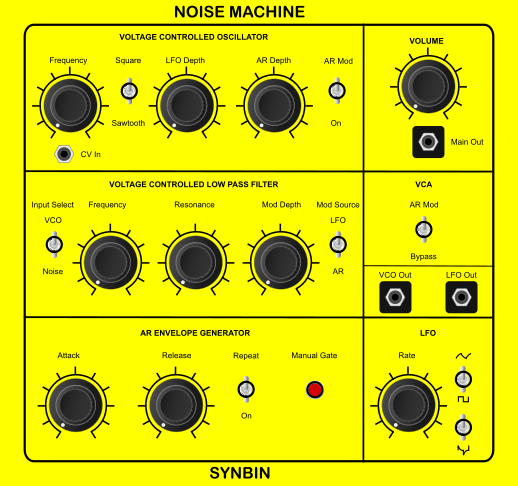
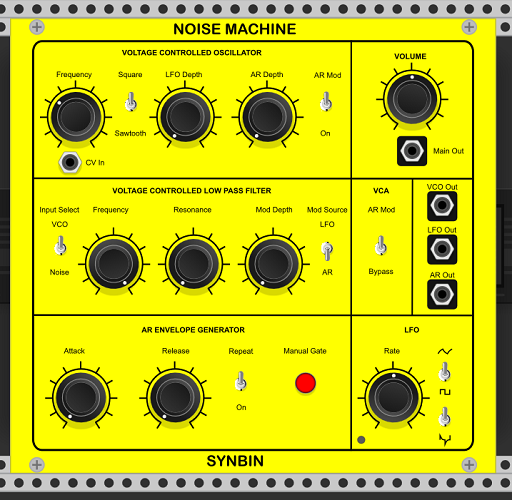
Updated README and screenshot

diff --git a/README.md b/README.md
@@ -7,5 +7,5 @@ Modules for use with VCV Rack Modular Synthesizer
 
 Based on the hardware Noise Toaster by Ray Wilson of 'Music from Outer Space'
 
-Differences include CV In for the VCO and individual outputs for the raw VCO and LFO.
+Differences include CV In for the VCO and individual outputs for the VCO, LFO and AR signals.
 
